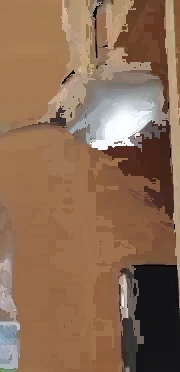
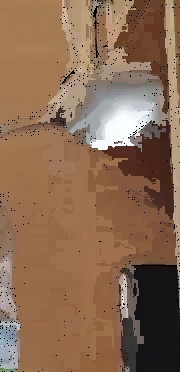
poprawa generacji spatiotemporal granules

diff --git a/preprocessing/granulation.py b/preprocessing/granulation.py
@@ -1,5 +1,7 @@
 import numpy as np
 
+from preprocessing.video_preprocessing import compute_3D_difference_matrix, compute_median_matrix
+
 
 def colour_nearness_rgb(color1, color2, threshold):
     '''Funkcja do sprawdzania podobiensta kolorow'''
@@ -10,7 +12,7 @@ def colour_nearness_gray(color1, color2, threshold):
     return np.abs(int(color1) - color2) < threshold
 
 
-def create_granules_gray(image, threshold):
+def create_granules_gray(image, threshold: int):
     '''Funkcja tworzaca granule'''
 
     height, width = image.shape
@@ -38,7 +40,7 @@ def create_granules_gray(image, threshold):
                     neighbor_y, neighbor_x = current_y + off_set_y, current_x + off_set_x
                     if 0 <= neighbor_y < height and 0 <= neighbor_x < width and image[neighbor_y][neighbor_x] != 0:
                         if colour_nearness_gray(image[current_y][current_x], image[neighbor_y][neighbor_x],
-                                                threshold) and granules[neighbor_y][neighbor_x] != granule_index:
+                                                threshold) and granules[neighbor_y][neighbor_x] is None:
                             granules[neighbor_y][neighbor_x] = granule_index
                             queue.append((neighbor_y, neighbor_x))
                             bounding_boxes[granule_index][0] = min(bounding_boxes[granule_index][0], neighbor_y)  # minY
@@ -50,7 +52,7 @@ def create_granules_gray(image, threshold):
     return (granules, initial_colors, bounding_boxes)
 
 
-def create_granules_color(image, threshold):
+def create_granules_color(image, threshold: int):
     '''Funkcja tworzaca granule'''
 
     height, width = image.shape[:2]
@@ -65,9 +67,10 @@ def create_granules_color(image, threshold):
             if np.all(image[y][x]) == 0 or granules[y][x] is not None:
                 continue
 
-            granules[y, x] = granule_index
+            # granules[y, x] = granule_index
             initial_colors[granule_index] = image[y][x]
             bounding_boxes[granule_index] = [y, x, y, x]  # [minY, minX, maxY, maxX]
+            neighbor_found = False
             queue = [(y, x)]
             while queue:
                 current_y, current_x = queue.pop(0)
@@ -77,56 +80,36 @@ def create_granules_color(image, threshold):
                             image[neighbor_y][neighbor_x]) != 0:
                         if colour_nearness_rgb(image[current_y][current_x], image[neighbor_y][neighbor_x],
                                            threshold) and granules[neighbor_y][neighbor_x] is None:
+                            neighbor_found = True
                             granules[neighbor_y][neighbor_x] = granule_index
                             queue.append((neighbor_y, neighbor_x))
                             bounding_boxes[granule_index][0] = min(bounding_boxes[granule_index][0], neighbor_y)  # minY
                             bounding_boxes[granule_index][1] = min(bounding_boxes[granule_index][1], neighbor_x)  # minX
                             bounding_boxes[granule_index][2] = max(bounding_boxes[granule_index][2], neighbor_y)  # maxY
                             bounding_boxes[granule_index][3] = max(bounding_boxes[granule_index][3], neighbor_x)  # maxX
-            granule_index += 1
+
+            if neighbor_found:
+                granule_index += 1
     print("Frame Processed")
     return (granules, initial_colors, bounding_boxes)
 
 
 def form_spatiotemporal_granules(frames, threshold):
+
     prev_taus = []
-    # granule dla ostatniej klatki
-    granules_last, initial_colors_last, bounding_boxes_last = create_granules_gray(frames[-1], threshold)
+    granules_last, initial_colors_last, bounding_boxes_last = create_granules_color(frames[-1], threshold)
 
     for i in range(0, len(frames) - 1):
-        granules, initial_colors, bounding_boxes = create_granules_gray(frames[i], threshold)
+        granules, initial_colors, bounding_boxes = create_granules_color(frames[i], threshold)
         prev_taus.append((granules, initial_colors, bounding_boxes))
 
-    # tutaj ma byc taka petla ktora przechodzi po p wczesniejszych klatkach ktore to juz sa w frames
-    # frames nie jest calym filmem tylko lista klatek od 0 do p
-    max = find_max_granule_index(granules_last)
-    for granule_index in range(max):
-        if granule_index % 10 == 0: print(f"Przetwarzanie granuli {granule_index}/{max}")
-        # recurrent_function(granule_index, granules_last, initial_colors_last[granule_index],
-        #                    bounding_boxes_last[granule_index], prev_taus, threshold)
-        iterated_function(granule_index, granules_last, initial_colors_last[granule_index],
-                          bounding_boxes_last[granule_index], prev_taus, threshold)
+    max_last = find_max_granule_index(granules_last)
+    for granule_index in range(max_last):
+        if granule_index % 10 == 0: print(f"Przetwarzanie granuli {granule_index}/{max_last}")
+        recurrent_function(granule_index, granules_last, initial_colors_last[granule_index],
+                           bounding_boxes_last[granule_index], prev_taus, threshold)
 
-    prev_taus.append((granules_last, initial_colors_last, bounding_boxes_last))
-    return prev_taus
-
-
-# w prev_taus jest p wczesniejszych klatek jesli p = 3 to np porowunje 3 klatki do tylu wzgledem klatki bierzacej
-# current_tau_granules, current_granule_colour, current_granule_bbox to sa wlasnie wlasciwosci bierzacej klatki
-# granule_index to jest walsnie przetwarzana granula z bierzacej klatki
-def iterated_function(granule_index, current_tau_granules, current_granule_colour, current_granule_bbox, prev_taus,
-                      threshold):
-    for prev_tau in prev_taus:
-        max_index = find_max_granule_index(prev_tau[0])
-        if granule_index > max_index:
-            continue
-        # przechodzenie po wszystkich granulach klatki z grupy klatek
-        for prev_granule_index in range(max_index):
-            # nachodzenie sie przetwarzanej granuli przetwarzanej klatki (z grupy p klatek) z granula z bierzacej klatki
-            is_overlap = is_overlapping(current_granule_bbox, prev_tau[2][prev_granule_index])
-            if colour_nearness_gray(current_granule_colour, prev_tau[1][prev_granule_index], threshold) and is_overlap:
-                prev_tau[1][prev_granule_index] = current_granule_colour
-                merge_granules(granule_index, prev_granule_index, prev_tau[0], prev_tau[2][prev_granule_index])
+    return prev_taus[0][0], prev_taus[0][1], prev_taus[0][2]
 
 
 def recurrent_function(granule_index, current_tau_granules, current_granule_colour, current_granule_bbox, prev_taus,
@@ -138,9 +121,9 @@ def recurrent_function(granule_index, current_tau_granules, current_granule_colo
     if granule_index >= max_prev:
         return
 
-    for prev_granule_index in range(find_max_granule_index(prev_tau[0])):
+    for prev_granule_index in range(max_prev):
         is_overlap = is_overlapping(current_granule_bbox, prev_tau[2][prev_granule_index])
-        if colour_nearness_gray(current_granule_colour, prev_tau[1][prev_granule_index], threshold) and is_overlap:
+        if colour_nearness_rgb(current_granule_colour, prev_tau[1][prev_granule_index], threshold) and is_overlap:
             prev_tau[1][prev_granule_index] = current_granule_colour
             merge_granules(granule_index, prev_granule_index, prev_tau[0], prev_tau[2][prev_granule_index])
             prev_colour = prev_tau[1][prev_granule_index]

diff --git a/utils/visualization.py b/utils/visualization.py
@@ -5,33 +5,38 @@ from preprocessing import granulation
 import cv2
 
 from preprocessing.granulation import find_max_granule_index
+from preprocessing.video_preprocessing import compute_3D_difference_matrix, compute_median_matrix
 
 
 class Visualization:
 
     @staticmethod
-    def visualize_video_granulation(frames, output_path, threshold=2, color=(0, 0, 0)):
-        if type(frames).__name__ == 'str':
-            frames = video_loader.load_frames_from_mp4(frames)
-        processed_frames = granulation.form_spatiotemporal_granules(frames, threshold)
+    def visualize_spatiotemporal_granules(frames, output_path, p, bbox=True, bbox_color=(255, 0, 0)):
+        if len(frames) <= 3:
+            raise Exception('Not enough frames to visualize')
+        diff_frames = compute_3D_difference_matrix(frames[:p], frames[p])
+        median_frame = compute_median_matrix(diff_frames)
+        threshold = 0.3 * np.max(median_frame)
 
-        out = cv2.VideoWriter(output_path, cv2.VideoWriter_fourcc(*'XVID'), 20.0,
-                              (frames[0].shape[1], frames[0].shape[0]))
+        print(threshold)
 
+        granules, initial_colors, bounding_boxes = granulation.form_spatiotemporal_granules(diff_frames, threshold)
 
-        for frame_index in range(len(frames)):
-            frame = frames[frame_index]
-            bounding_boxes = processed_frames[frame_index][2]
+        if bbox:
             for granule_index, bbox in bounding_boxes.items():
                 minY, minX, maxY, maxX = bbox
-                cv2.rectangle(frame, (minX, minY), (maxX, maxY), color, 1)
-
-            out.write(frame)
-        out.release()
-
+                cv2.rectangle(frames[np.floor(p / 2)], (minX, minY), (maxX, maxY), bbox_color, 1)
+            cv2.imwrite(output_path, frames[-1])
+        else:
+            result = np.zeros_like(frames[0])
+            for y in range(frames[0].shape[0]):
+                for x in range(frames[0].shape[1]):
+                    if granules[y, x] is not None:
+                        result[y, x] = initial_colors[granules[y, x]]
+            cv2.imwrite(output_path, result)
 
     @staticmethod
-    def visualize_image_granulation(image, output_path, threshold=2, rgb=True, bbox=True, bbox_color=(0, 0, 0)):
+    def visualize_spatio_color_granules(image, output_path, threshold=2, rgb=True, bbox=True, bbox_color=(0, 0, 0)):
         if type(image).__name__ == 'str':
             image = cv2.imread(image)
 
@@ -53,6 +58,3 @@ class Visualization:
                     if granules[y, x] is not None:
                         result[y, x] = initial_colors[granules[y, x]]
             cv2.imwrite(output_path, result)
-
-
-

diff --git a/preprocessing/video_preprocessing.py b/preprocessing/video_preprocessing.py
@@ -1,8 +1,4 @@
 import numpy as np
-import video_loader
-from preprocessing.temporal_segmentation import three_point_approximation
-from preprocessing.mask_utils import find_largest_contour_bbox, morphological_open, morphological_close
-from utils.visualization import Visualization
 import cv2
 
 
@@ -31,12 +27,3 @@ def compute_median_matrix(difference_3D_matrix):
             median_matrix[y, x, 2] = np.median(pixel_values_b)  # Blue channel
 
     return median_matrix
-
-
-video = video_loader.load_frames_from_mp4('../data/spoon.mp4')
-# Visualization.visualize_video_granulation(difference, "../results/granulation_difference_spoon_test_3.avi", 350)
-
-gray = cv2.cvtColor(video[5], cv2.COLOR_RGB2GRAY)
-Visualization.visualize_image_granulation(gray, "../results/spoon/granules_no_bbox_gray_image_th2.jpg", 2, False, False)
-
-Visualization.visualize_image_granulation(video[5], "../results/spoon/granules_rgb_image_no_bbox_th50.jpg", 50, True, False)

diff --git a/main.py b/main.py
@@ -1,3 +1,16 @@
-from models import *
+import cv2
+from preprocessing import video_loader
+from preprocessing.video_preprocessing import compute_3D_difference_matrix
+from utils.visualization import Visualization
 
-print("siema")
+video = video_loader.load_frames_from_mp4('../data/spoon.mp4')
+# Visualization.visualize_video_granulation(difference, "../results/granulation_difference_spoon_test_3.avi", 350)
+
+# gray = cv2.cvtColor(video[5], cv2.COLOR_RGB2GRAY)
+# Visualization.visualize_image_granulation(gray, "../results/spoon/granules_no_bbox_gray_image_th2.jpg", 2, False, False)
+#
+
+diff = compute_3D_difference_matrix(video[:4], video[4])
+
+Visualization.visualize_spatio_color_granules(diff[0], "../results/spoon/granules_rgb_diff_with_bbox_th67.jpg", 67, True, True, (255, 0, 0))
+# Visualization.visualize_spatiotemporal_granules(video[:5], "../results/spoon/spatiotemporal_granules_with_bbox_3.jpg", 3, True)
